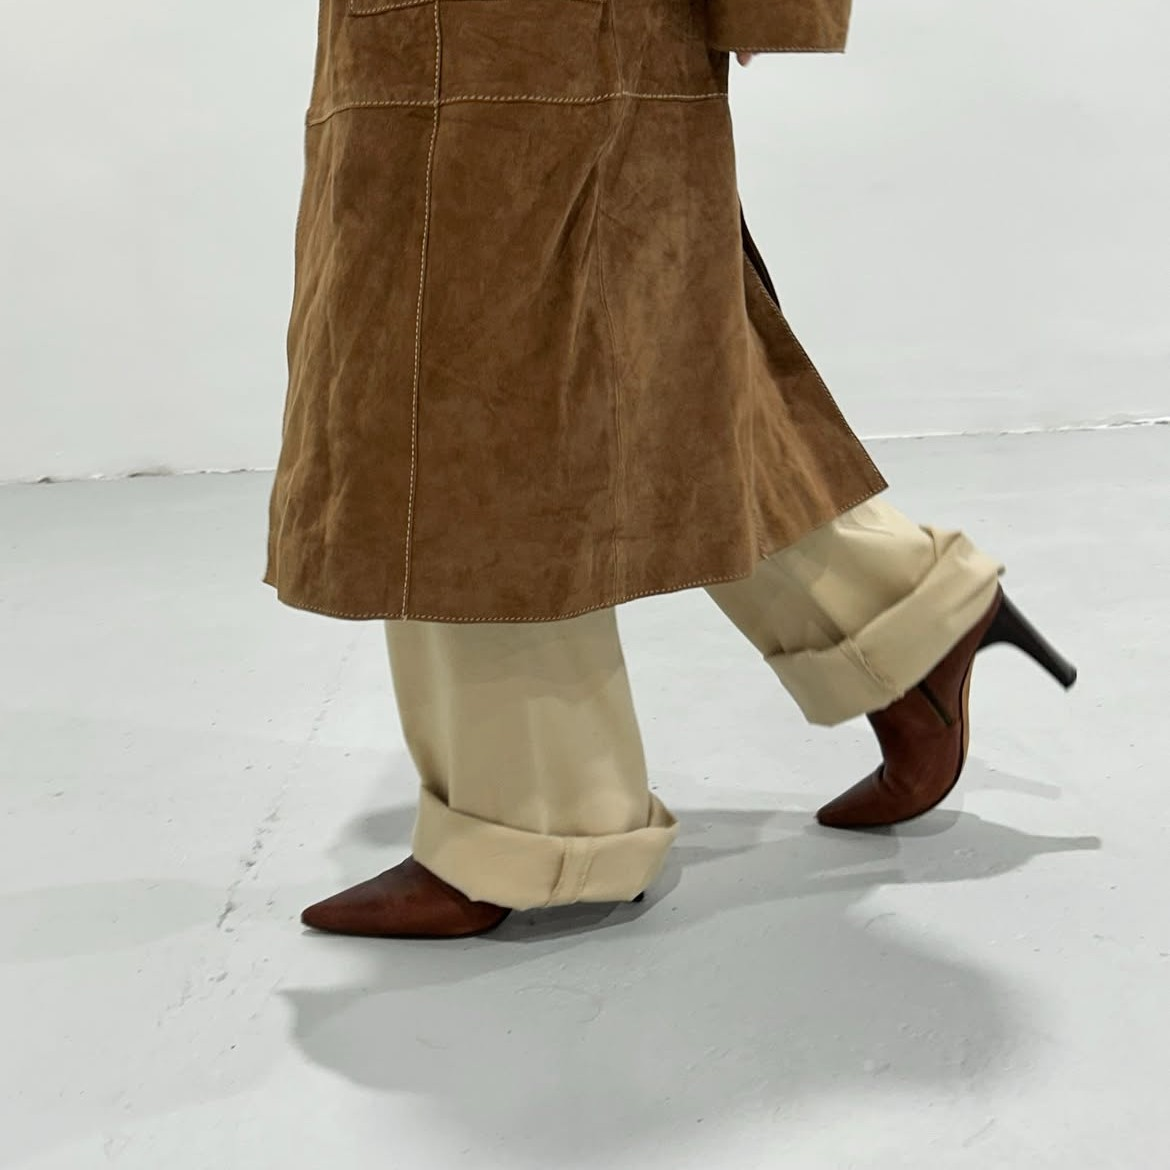
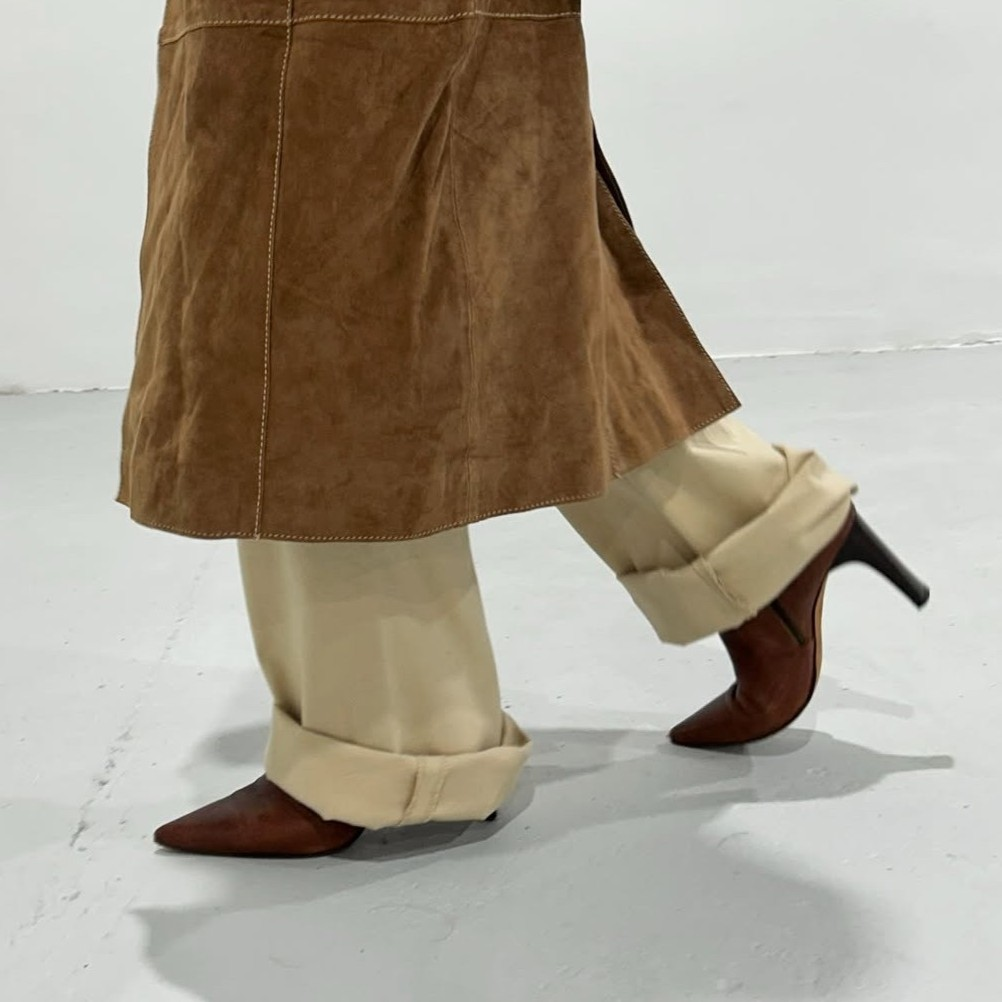
Polished text-sizes

diff --git a/src/components/Hero.jsx b/src/components/Hero.jsx
@@ -3,30 +3,43 @@ import FlowerMark from './FlowerMark'
 import HeroDesktopCollage from './HeroDesktopCollage'
 import HeroMobileSlider from './HeroMobileSlider'
 import useMediaQuery from '../hooks/useMediaQuery'
+import heroFit from '../config/heroFit'
 
 export default function Hero() {
-  const { t } = useTranslation()
+  const { t, i18n } = useTranslation()
   const isDesktop = useMediaQuery('(min-width: 768px)')
 
   return (
     <section
-      className="mx-auto grid w-[min(calc(100%-40px),1280px)] grid-cols-1 items-center gap-6 pt-5 pb-12 md:grid-cols-[1.05fr_0.95fr] md:gap-[clamp(40px,8vw,112px)] md:pt-20 md:pb-20"
+      className="mx-auto grid w-[min(calc(100%-40px),1280px)] grid-cols-1 items-center gap-6 pt-5 pb-12 md:grid-cols-[minmax(0,1fr)_minmax(0,1.15fr)] md:gap-[clamp(40px,calc(8vw-1.4rem),112px)] md:pt-20 md:pb-20"
       aria-labelledby="hero-title"
     >
-      <div className="motion-safe:animate-hero-fade-in">
+      <div className="min-w-0 motion-safe:animate-hero-fade-in">
         {isDesktop ? <HeroDesktopCollage /> : <HeroMobileSlider />}
       </div>
-      <div className="md:py-8">
+      <div
+        className="min-w-0 [container-type:inline-size] md:py-8"
+        style={{
+          '--hero-fit-en': heroFit.en,
+          '--hero-fit-hu': heroFit.hu,
+        }}
+      >
         <div className="motion-safe:animate-hero-fade-in">
           <p className="mb-[14px] flex items-center gap-[9px] text-[12px] leading-[1.4] font-medium tracking-[0.12em] text-secondary uppercase">
             <FlowerMark className="h-5 w-5 shrink-0 fill-current" />
             {t('hero.eyebrow')}
           </p>
           <h1
-            className="m-0 max-w-[720px] font-display text-[clamp(44px,14vw,64px)] leading-[0.92] font-normal tracking-[-0.055em] uppercase md:text-[clamp(64px,8vw,96px)]"
+            className="hero-title m-0 w-full max-w-[720px] min-w-0 font-display text-[clamp(2.25rem,14vw,4rem)] leading-[0.92] font-normal tracking-[-0.055em] uppercase"
             id="hero-title"
           >
-            {t('hero.title')}
+            {i18n.resolvedLanguage === 'hu' ? (
+              <>
+                {t('hero.titleStart')}{' '}
+                <br className="hidden md:block lg:hidden" />
+                {t('hero.titleRest')}
+              </>
+            ) : t('hero.title')}
           </h1>
         </div>
         <div className="motion-safe:animate-hero-fade-in motion-safe:[animation-delay:500ms]">

diff --git a/src/components/LooksSection.jsx b/src/components/LooksSection.jsx
@@ -12,6 +12,7 @@ import smallSquare2Image from '../assets/images/looks/small-square-2.jpg'
 import smallSquare3Image from '../assets/images/looks/small-square-3.jpg'
 import horizontalImage from '../assets/images/looks/horizontal-rectangle.jpg'
 import vertical2Image from '../assets/images/looks/vertical-rectange-2.jpg'
+import looksFit from '../config/looksFit'
 
 const lookImages = {
   'big-vertical-rectangle.jpg': bigVerticalImage,
@@ -100,10 +101,16 @@ export default function LooksSection() {
     <div className="mx-auto flex w-[min(calc(100%-40px),1280px)] flex-col gap-8 md:gap-24" id="looks">
       <Divider className="mb-6 md:my-0" />
       <Reveal as="section" aria-labelledby="looks-title">
-        <div className="mb-8 md:mb-12">
+        <div
+          className="mb-8 [container-type:inline-size] md:mb-12"
+          style={{
+            '--looks-fit-en': looksFit.en,
+            '--looks-fit-hu': looksFit.hu,
+          }}
+        >
           <Label className="mb-3">{t('looks.eyebrow')}</Label>
           <h2
-            className="m-0 max-w-[720px] font-display text-[clamp(40px,12vw,56px)] leading-[0.92] font-normal tracking-[-0.055em] uppercase md:text-[64px]"
+            className="looks-title m-0 min-w-0 max-w-[720px] font-display leading-[0.92] font-normal tracking-[-0.055em] uppercase"
             id="looks-title"
           >
             {t('looks.title')}

diff --git a/src/index.css b/src/index.css
@@ -28,6 +28,73 @@
   transition: transform 150ms ease-out;
 }
 
+:lang(en) .hero-title {
+  --hero-fit: var(--hero-fit-en);
+}
+
+:lang(hu) .hero-title {
+  --hero-fit: var(--hero-fit-hu);
+}
+
+:lang(en) .looks-title {
+  --looks-fit: var(--looks-fit-en);
+}
+
+:lang(hu) .looks-title {
+  --looks-fit: var(--looks-fit-hu);
+}
+
+:lang(en) .visit-title {
+  --visit-fit: var(--visit-fit-en);
+}
+
+:lang(hu) .visit-title {
+  --visit-fit: var(--visit-fit-hu);
+}
+
+.hero-title {
+  font-size: clamp(2.25rem, min(14vw, calc(100cqw / var(--hero-fit))), 4rem);
+  overflow-wrap: break-word;
+  text-wrap: balance;
+}
+
+.looks-title {
+  font-size: clamp(2.25rem, min(12vw, calc(100cqw / var(--looks-fit))), 3.5rem);
+  overflow-wrap: break-word;
+  text-wrap: balance;
+}
+
+.visit-title {
+  overflow-wrap: break-word;
+  text-wrap: balance;
+}
+
+@media (min-width: 768px) {
+  .hero-title {
+    font-size: clamp(2.5rem, calc(100cqw / var(--hero-fit)), 6rem);
+  }
+
+  .looks-title {
+    font-size: 64px;
+  }
+}
+
+@media (min-width: 1024px) {
+  .visit-title {
+    font-size: clamp(2rem, calc(100cqw / var(--visit-fit)), 3rem);
+  }
+}
+
+@media (max-width: 359px) {
+  :lang(hu) .hero-title {
+    font-size: 2rem;
+  }
+
+  :lang(hu) .looks-title {
+    font-size: 2rem;
+  }
+}
+
 @media (prefers-reduced-motion: reduce) {
   .hero-desktop-image,
   .hero-pointer-tilt {

diff --git a/src/components/VisitSection.jsx b/src/components/VisitSection.jsx
@@ -12,16 +12,23 @@ import Divider from './Divider'
 import Reveal from './Reveal'
 import Label from './Label'
 import useMediaQuery from '../hooks/useMediaQuery'
+import visitFit from '../config/visitFit'
 
 function VisitIntro({ t }) {
   return (
-    <div className="flex flex-col gap-4 md:col-span-7 md:row-start-1 lg:col-span-1 lg:col-start-1 lg:row-start-1 lg:row-span-2">
+    <div
+      className="flex flex-col gap-4 md:col-span-7 md:row-start-1 lg:col-span-1 lg:col-start-1 lg:row-start-1 lg:row-span-2 lg:[container-type:inline-size]"
+      style={{
+        '--visit-fit-en': visitFit.en,
+        '--visit-fit-hu': visitFit.hu,
+      }}
+    >
       <Label className="flex items-center gap-[9px] md:leading-4 lg:leading-4">
         <FlowerMark className="h-5 w-5 shrink-0 fill-current md:h-4 md:w-4 lg:h-5 lg:w-5" />
         {t('visit.eyebrow')}
       </Label>
       <h2
-        className="m-0 max-w-[440px] font-display text-[34px] leading-[0.98] font-normal tracking-[-0.04em] uppercase md:text-[48px]"
+        className="visit-title m-0 min-w-0 max-w-[440px] font-display text-[34px] leading-[0.98] font-normal tracking-[-0.04em] uppercase md:text-[48px]"
         id="visit-title"
       >
         {t('visit.title')}

diff --git a/src/components/StoreMap.jsx b/src/components/StoreMap.jsx
@@ -69,7 +69,7 @@ export function StoreMapButton() {
 
   return (
     <a
-      className={`inline-flex min-h-11 w-fit items-center justify-between gap-6 border border-ink px-4 text-[13px] font-semibold tracking-[0.06em] uppercase md:whitespace-nowrap lg:whitespace-nowrap ${location.googleMapsUrl ? 'bg-paper text-ink transition-colors duration-150 hover:bg-ink hover:text-paper' : 'pointer-events-none bg-accent text-ink'}`}
+      className={`inline-flex min-h-11 w-fit items-center justify-between gap-6 border border-ink px-4 text-[13px] font-semibold tracking-[0.06em] uppercase md:whitespace-nowrap lg:gap-3 lg:whitespace-nowrap lg:px-2 ${location.googleMapsUrl ? 'bg-paper text-ink transition-colors duration-150 hover:bg-ink hover:text-paper' : 'pointer-events-none bg-accent text-ink'}`}
       href={location.googleMapsUrl ?? '#visit'}
       aria-disabled={!location.googleMapsUrl}
       onClick={(event) => {

diff --git a/src/config/looksFit.js b/src/config/looksFit.js
@@ -1,0 +1,6 @@
+const looksFit = Object.freeze({
+  en: '4.70',
+  hu: '8.69',
+})
+
+export default looksFit

diff --git a/src/config/visitFit.js b/src/config/visitFit.js
@@ -1,0 +1,6 @@
+const visitFit = Object.freeze({
+  en: '8.02',
+  hu: '8.28',
+})
+
+export default visitFit

diff --git a/src/config/heroFit.js b/src/config/heroFit.js
@@ -1,0 +1,6 @@
+const heroFit = Object.freeze({
+  en: '5.43',
+  hu: '8.94',
+})
+
+export default heroFit
